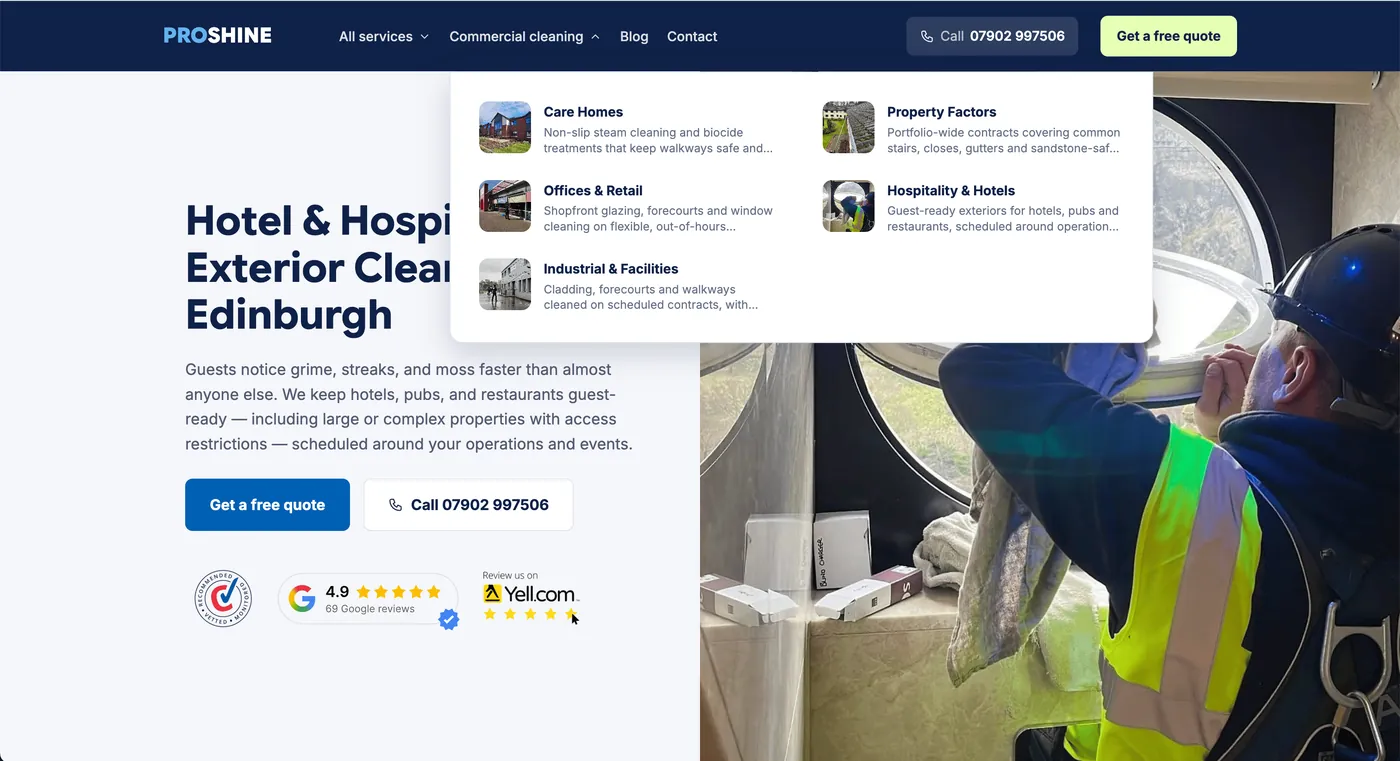
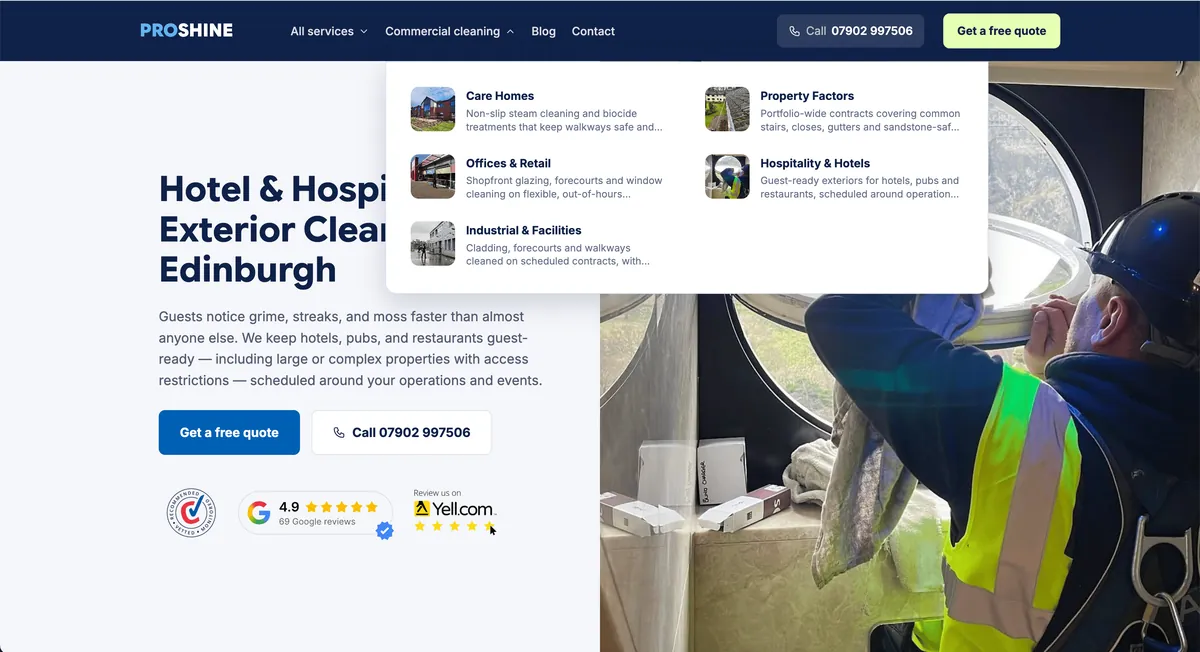
Rebuild the case study around the screenshots
The screenshots were the evidence but were rendering at 428px, boxed
inside a 760px column of five identical numbered cards. The work now
reads as five compositions rather than a list, and the images break out
past the content column to 1232px.

Widths, before to after: homepage and quote form 428 to 1184, services
428 to 880, sectors and blog 428 to 648, dashboard 428 to 560.

That needed bigger sources than the 1400px set, so the wide shots are
re-encoded up to 2400px and delivered with srcset. Mobile now pulls
436K instead of the desktop 676K, where before every viewport got the
same files.

Blocks vary deliberately: wide showcase with an offset inset, split
with sticky text, wide single, split reversed, then the dashboard on
dark as the point the system builds to. The 01-05 step numbers are gone
— the headings carry it, and numbering every step is a templated tic.

diff --git a/work/proshine.html b/work/proshine.html
@@ -119,83 +119,111 @@
       <h2 class="section-title">What we built for them</h2>
       <p class="section-sub">Five parts, designed to work as one system rather than five separate line items.</p>
     </div>
-
-    <ol class="case-steps">
-      <li class="case-step reveal">
-        <span class="case-step-num">01</span>
-        <div>
-          <h3>A website built to turn visitors into quotes</h3>
-          <p>We designed and built <a href="https://proshinespecialisedcleaning.co.uk" rel="noopener noreferrer" target="_blank">proshinespecialisedcleaning.co.uk</a> around the thing that actually matters to a cleaning business — getting someone to ask for a quote. Every service has its own page, from window and gutter cleaning to roof, solar panel and pressure washing, so each one can rank and convert on its own terms.</p>
-          <div class="case-step-shots case-step-shots--two">
-            <figure>
-              <img src="/images/work/proshine/homepage.webp" alt="The Proshine homepage, with a quote request and phone number above the fold" width="1400" height="762" loading="lazy">
-              <figcaption>Quote request and phone number above the fold, with review ratings alongside.</figcaption>
-            </figure>
-            <figure>
-              <img src="/images/work/proshine/services.webp" alt="The services grid on the Proshine site" width="1400" height="763" loading="lazy">
-              <figcaption>A page per service, so each one can rank on its own.</figcaption>
-            </figure>
-          </div>
-        </div>
-      </li>
-      <li class="case-step reveal">
-        <span class="case-step-num">02</span>
-        <div>
-          <h3>Local search across every Edinburgh postcode</h3>
-          <p>Exterior cleaning is won locally. We built out the Google Business Profile and structured the site's SEO around the areas Proshine actually covers — all seventeen Edinburgh postcode districts, plus Fife and the Lothians — so they show up for the searches that happen street by street. Sector pages do the same job for commercial work, and the blog answers the questions people actually search before they buy.</p>
-          <div class="case-step-shots case-step-shots--two">
-            <figure>
-              <img src="/images/work/proshine/sectors.webp" alt="Commercial sector pages for care homes, property factors, offices, hospitality and industrial" width="1400" height="761" loading="lazy">
-              <figcaption>Dedicated pages for each commercial sector they serve.</figcaption>
-            </figure>
-            <figure>
-              <img src="/images/work/proshine/blog.webp" alt="The Proshine blog index, showing cleaning guides" width="1400" height="762" loading="lazy">
-              <figcaption>Guides that catch searches long before anyone asks for a quote.</figcaption>
-            </figure>
-          </div>
-        </div>
-      </li>
-      <li class="case-step reveal">
-        <span class="case-step-num">03</span>
-        <div>
-          <h3>Google Ads for the jobs worth bidding on</h3>
-          <p>Paid search fills the gap while organic rankings build, and keeps the diary full in quieter months. Campaigns are structured by service so budget follows the work Proshine most wants — not whichever keyword happens to be cheapest. Every click lands on a page built to take a quote request, rather than a generic homepage.</p>
-          <div class="case-step-shots">
-            <figure>
-              <img src="/images/work/proshine/quote-form.webp" alt="The Proshine quote request form, with the fields a cleaning quote needs" width="1400" height="762" loading="lazy">
-              <figcaption>The quote form ads point at — it asks for what's needed to price a job, and nothing else.</figcaption>
-            </figure>
-          </div>
-        </div>
-      </li>
-      <li class="case-step reveal">
-        <span class="case-step-num">04</span>
-        <div>
-          <h3>Social media that shows the work</h3>
-          <p>We run Instagram and Facebook for Proshine. Exterior cleaning is an unusually visual trade — the before and after does the selling — so the content leans on the transformation rather than on saying how good the service is. The same shots earn their keep twice, running on the site as recent work.</p>
-          <div class="case-step-shots">
-            <figure>
-              <img src="/images/work/proshine/before-after.webp" alt="A before and after of a solar panel cleaning job on the Proshine site" width="1400" height="763" loading="lazy">
-              <figcaption>Recent work on the site — the same before-and-afters that carry the social accounts.</figcaption>
-            </figure>
-          </div>
-        </div>
-      </li>
-      <li class="case-step reveal">
-        <span class="case-step-num">05</span>
-        <div>
-          <h3>Closed-loop tracking, so the ads learn</h3>
-          <p>This is the part most cleaning companies never get. Website forms feed straight into HubSpot, and when a lead actually converts, HubSpot sends that signal back to Google Ads. The campaigns optimise towards enquiries that turn into real jobs, not just anyone who filled in a form. Looker Studio reports pull it together, so Proshine can see what every pound is doing — the exact thing they could never get an answer to before.</p>
-          <div class="case-step-shots">
-            <figure>
-              <img src="/images/work/proshine/report.webp" alt="The Proshine Looker Studio dashboard, showing ad spend, leads, closed won and return on ad spend" width="1083" height="940" loading="lazy">
-              <figcaption>Ad spend through to closed-won revenue and ROAS, in one place. Figures blurred at the client's request.</figcaption>
-            </figure>
-          </div>
-        </div>
-      </li>
-    </ol>
   </div>
+
+  <!-- Website — wide showcase, with the secondary shot inset and offset -->
+  <article class="case-block">
+    <div class="case-wide">
+      <div class="case-block-text reveal">
+        <h3>A website built to turn visitors into quotes</h3>
+        <p>We designed and built <a href="https://proshinespecialisedcleaning.co.uk" rel="noopener noreferrer" target="_blank">proshinespecialisedcleaning.co.uk</a> around the thing that actually matters to a cleaning business — getting someone to ask for a quote. Every service has its own page, from window and gutter cleaning to roof, solar panel and pressure washing, so each one can rank and convert on its own terms.</p>
+      </div>
+      <figure class="case-figure reveal">
+        <img src="/images/work/proshine/homepage.webp"
+             srcset="/images/work/proshine/homepage.webp 1400w, /images/work/proshine/homepage@2400.webp 2400w"
+             sizes="(max-width: 900px) 100vw, 1280px"
+             alt="The Proshine homepage, with a quote request and phone number above the fold"
+             width="2400" height="1306" loading="lazy">
+        <figcaption>Quote request and phone number above the fold, with review ratings alongside.</figcaption>
+      </figure>
+      <figure class="case-figure case-figure--inset reveal">
+        <img src="/images/work/proshine/services.webp"
+             srcset="/images/work/proshine/services.webp 1200w, /images/work/proshine/services@1800.webp 1800w"
+             sizes="(max-width: 900px) 100vw, 880px"
+             alt="The services grid on the Proshine site"
+             width="1800" height="981" loading="lazy">
+        <figcaption>A page per service, so each one can rank on its own.</figcaption>
+      </figure>
+    </div>
+  </article>
+
+  <!-- Local search — split, images carry the weight -->
+  <article class="case-block case-block--split">
+    <div class="case-wide case-split-grid">
+      <div class="case-block-text reveal">
+        <h3>Local search across every Edinburgh postcode</h3>
+        <p>Exterior cleaning is won locally. We built out the Google Business Profile and structured the site's SEO around the areas Proshine actually covers — all seventeen Edinburgh postcode districts, plus Fife and the Lothians — so they show up for the searches that happen street by street. Sector pages do the same job for commercial work, and the blog answers the questions people actually search before they buy.</p>
+      </div>
+      <div class="case-split-figures">
+        <figure class="case-figure reveal">
+          <img src="/images/work/proshine/sectors.webp" sizes="(max-width: 900px) 100vw, 620px"
+               alt="Commercial sector pages for care homes, property factors, offices, hospitality and industrial"
+               width="1200" height="652" loading="lazy">
+          <figcaption>Dedicated pages for each commercial sector they serve.</figcaption>
+        </figure>
+        <figure class="case-figure reveal">
+          <img src="/images/work/proshine/blog.webp" sizes="(max-width: 900px) 100vw, 620px"
+               alt="The Proshine blog index, showing cleaning guides"
+               width="1200" height="653" loading="lazy">
+          <figcaption>Guides that catch searches long before anyone asks for a quote.</figcaption>
+        </figure>
+      </div>
+    </div>
+  </article>
+
+  <!-- Google Ads — full-width single -->
+  <article class="case-block">
+    <div class="case-wide">
+      <div class="case-block-text reveal">
+        <h3>Google Ads for the jobs worth bidding on</h3>
+        <p>Paid search fills the gap while organic rankings build, and keeps the diary full in quieter months. Campaigns are structured by service so budget follows the work Proshine most wants — not whichever keyword happens to be cheapest. Every click lands on a page built to take a quote request, rather than a generic homepage.</p>
+      </div>
+      <figure class="case-figure reveal">
+        <img src="/images/work/proshine/quote-form.webp"
+             srcset="/images/work/proshine/quote-form.webp 1400w, /images/work/proshine/quote-form@2400.webp 2400w"
+             sizes="(max-width: 900px) 100vw, 1280px"
+             alt="The Proshine quote request form, with the fields a cleaning quote needs"
+             width="2400" height="1306" loading="lazy">
+        <figcaption>The quote form ads point at. It asks for what's needed to price a job, and nothing else.</figcaption>
+      </figure>
+    </div>
+  </article>
+
+  <!-- Social — split reversed, image leads -->
+  <article class="case-block case-block--split">
+    <div class="case-wide case-split-grid case-split-grid--reverse">
+      <div class="case-block-text reveal">
+        <h3>Social media that shows the work</h3>
+        <p>We run Instagram and Facebook for Proshine. Exterior cleaning is an unusually visual trade — the before and after does the selling — so the content leans on the transformation rather than on saying how good the service is. The same shots earn their keep twice, running on the site as recent work.</p>
+      </div>
+      <div class="case-split-figures">
+        <figure class="case-figure reveal">
+          <img src="/images/work/proshine/before-after.webp"
+               srcset="/images/work/proshine/before-after.webp 1200w, /images/work/proshine/before-after@1800.webp 1800w"
+               sizes="(max-width: 900px) 100vw, 720px"
+               alt="A before and after of a solar panel cleaning job on the Proshine site"
+               width="1800" height="981" loading="lazy">
+          <figcaption>Recent work on the site, from the same before-and-afters that carry the social accounts.</figcaption>
+        </figure>
+      </div>
+    </div>
+  </article>
+
+  <!-- Tracking — the climax, on dark -->
+  <article class="case-block case-block--feature">
+    <div class="case-wide case-feature-grid reveal">
+      <div class="case-block-text">
+        <h3>Closed-loop tracking, so the ads learn</h3>
+        <p>This is the part most cleaning companies never get. Website forms feed straight into HubSpot, and when a lead actually converts, HubSpot sends that signal back to Google Ads. The campaigns optimise towards enquiries that turn into real jobs, not just anyone who filled in a form. Looker Studio reports pull it together, so Proshine can see what every pound is doing — the exact thing they could never get an answer to before.</p>
+      </div>
+      <figure class="case-figure">
+        <img src="/images/work/proshine/report.webp" sizes="(max-width: 900px) 100vw, 560px"
+             alt="The Proshine Looker Studio dashboard, showing ad spend, leads, closed won and return on ad spend"
+             width="1083" height="940" loading="lazy">
+        <figcaption>Ad spend through to closed-won revenue and ROAS, in one place. Figures blurred at the client's request.</figcaption>
+      </figure>
+    </div>
+  </article>
 </section>
 
 <!-- RESULT -->

diff --git a/css/style.css b/css/style.css
@@ -1479,58 +1479,107 @@ footer { background: #120A28; color: rgba(255, 255, 255, 0.6); padding: 48px 24p
 .case-challenge-body p + p { margin-top: 20px; }
 .case-challenge-body strong { color: var(--sg-dark); font-weight: 600; }
 
-/* numbered workstreams */
-.case-steps {
-  list-style: none;
-  max-width: 760px;
+/* ── workstream blocks ──
+   Five blocks, deliberately not five identical cards. The screenshots are
+   the argument here, so they break out past the 1040px content column and
+   the composition changes between blocks to stop the page reading as a
+   template. Text keeps a ~68ch measure regardless of how wide the shots go. */
+.case-block { margin-top: 96px; }
+.case-block:first-of-type { margin-top: 0; }
+
+.case-wide {
+  width: 100%;
+  max-width: 1280px;
   margin: 0 auto;
-  display: flex;
-  flex-direction: column;
-  gap: 8px;
+  padding: 0 24px;
 }
-.case-step {
-  display: flex;
-  gap: 24px;
-  padding: 28px;
-  border: 1px solid var(--border);
-  border-radius: var(--radius-md);
-  background: var(--white);
+
+.case-block-text { max-width: 680px; }
+.case-block-text h3 {
+  font-size: clamp(24px, 2.4vw, 30px);
+  color: var(--sg-dark);
+  margin-bottom: 12px;
 }
-.case-step-num {
-  flex-shrink: 0;
-  font-family: 'Inter Tight', sans-serif;
-  font-size: 15px;
-  font-weight: 600;
-  color: var(--purple-300);
-  padding-top: 2px;
-}
-.case-step h3 { font-size: 19px; color: var(--sg-dark); margin-bottom: 8px; }
-.case-step p { color: var(--text-muted); line-height: 1.7; }
-.case-step a {
+.case-block-text p { color: var(--text-muted); font-size: 17px; line-height: 1.7; }
+.case-block-text a {
   color: var(--purple-700);
   text-decoration: underline;
   text-underline-offset: 2px;
 }
 
-/* screenshots of the work, inside a step */
-.case-step-shots {
-  margin-top: 20px;
-  display: grid;
-  gap: 16px;
-}
-.case-step-shots--two { grid-template-columns: 1fr 1fr; }
-.case-step-shots img {
+/* a screenshot, at whatever width its container allows */
+.case-figure { margin-top: 28px; }
+.case-figure img {
   width: 100%;
   height: auto;
   display: block;
   border: 1px solid var(--border);
-  border-radius: var(--radius-sm);
+  border-radius: var(--radius-md);
+  /* screenshots are flat UI, so a tinted shadow reads better than a hard edge */
+  box-shadow: 0 18px 50px rgba(25, 15, 54, 0.10);
 }
-.case-step-shots figcaption {
-  margin-top: 8px;
+.case-figure figcaption {
+  margin-top: 12px;
   font-size: 13px;
   line-height: 1.45;
   color: var(--purple-500);
+}
+
+/* the secondary shot sits narrower and pushed right, so two stacked
+   screenshots don't read as two identical slabs */
+.case-figure--inset {
+  max-width: 880px;
+  margin-left: auto;
+}
+
+/* split blocks: text one side, screenshots the other */
+.case-split-grid {
+  display: grid;
+  grid-template-columns: 1fr 1.35fr;
+  gap: 56px;
+  align-items: start;
+}
+.case-split-grid--reverse { grid-template-columns: 1.35fr 1fr; }
+.case-split-grid--reverse .case-block-text { order: 2; }
+.case-split-grid--reverse .case-split-figures { order: 1; }
+.case-split-figures { display: grid; gap: 32px; }
+.case-split-grid .case-block-text { position: sticky; top: 120px; }
+
+/* the reporting block, which is the point the whole system builds to */
+.case-block--feature {
+  background: var(--sg-dark);
+  padding: 80px 0;
+  margin-top: 96px;
+}
+.case-feature-grid {
+  display: grid;
+  grid-template-columns: 1fr 1fr;
+  gap: 64px;
+  align-items: center;
+}
+.case-block--feature .case-block-text h3 { color: var(--white); }
+.case-block--feature .case-block-text p { color: rgba(255, 255, 255, 0.72); }
+.case-block--feature .case-figure { margin-top: 0; }
+.case-block--feature .case-figure img {
+  border-color: rgba(255, 255, 255, 0.14);
+  box-shadow: 0 24px 70px rgba(0, 0, 0, 0.42);
+}
+.case-block--feature .case-figure figcaption { color: var(--purple-300); }
+
+@media (max-width: 900px) {
+  .case-block { margin-top: 64px; }
+  .case-split-grid,
+  .case-split-grid--reverse,
+  .case-feature-grid {
+    grid-template-columns: 1fr;
+    gap: 28px;
+  }
+  /* sticky text would trap the reader above the images once stacked */
+  .case-split-grid .case-block-text { position: static; }
+  .case-split-grid--reverse .case-block-text { order: 1; }
+  .case-split-grid--reverse .case-split-figures { order: 2; }
+  .case-figure--inset { max-width: none; }
+  .case-block--feature { padding: 56px 0; margin-top: 64px; }
 }
 
 /* the headline number */
@@ -1575,12 +1624,6 @@ footer { background: #120A28; color: rgba(255, 255, 255, 0.6); padding: 48px 24p
 @media (max-width: 900px) {
   .case-intro .container { flex-direction: column; gap: 32px; }
   .case-hero { flex: none; width: 100%; max-width: 420px; align-self: center; }
-  .case-step { flex-direction: column; gap: 12px; padding: 24px; }
-}
-
-@media (max-width: 600px) {
-  /* two side-by-side screenshots stop being legible well before this */
-  .case-step-shots--two { grid-template-columns: 1fr; }
 }
 
 /* ════════════════════════════════════════
